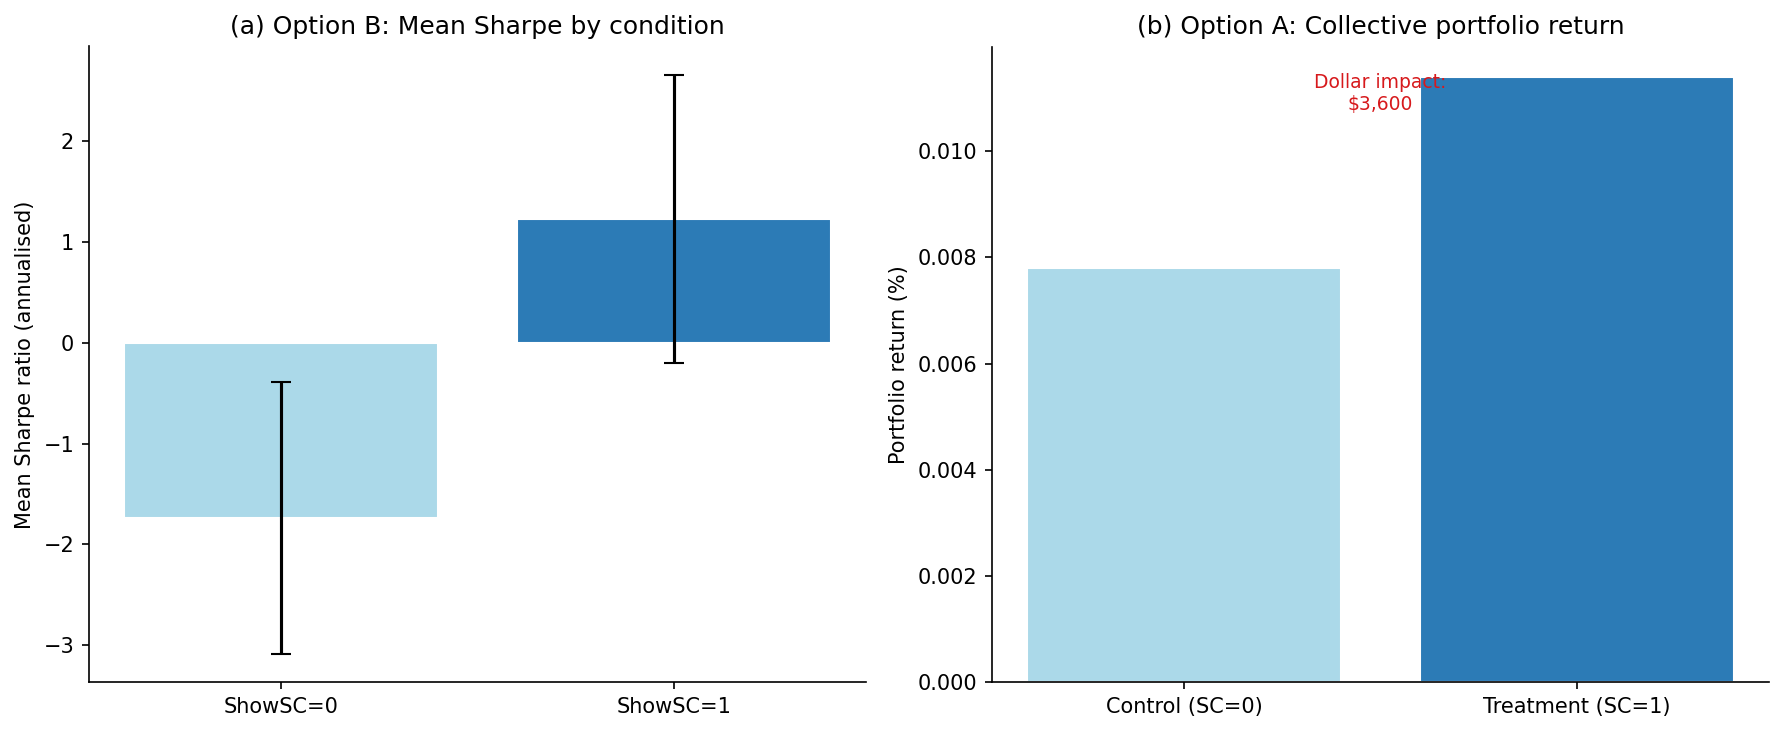
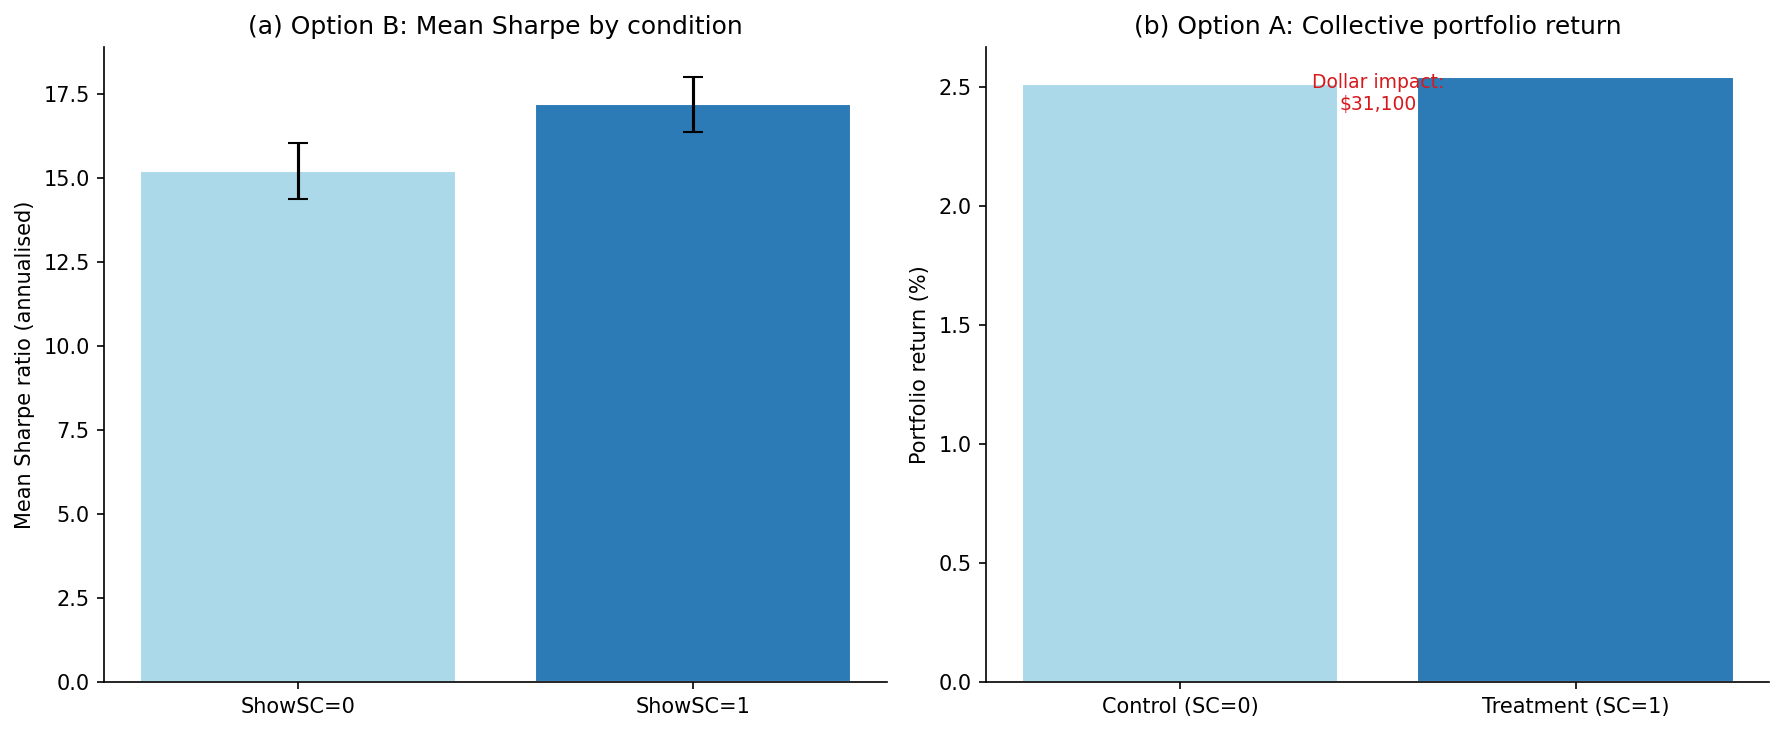
H1 and H2 regression Spec updated.

diff --git a/thesis_final.md b/thesis_final.md
@@ -1109,7 +1109,7 @@ $$
 
 Where $\alpha_i$ is a manager-specific intercept. This specification is an alternative estimator for the same H1 hypothesis, not a separate test. It is applied if the final data structure supports it.
 
-**Horizon-matched portfolio simulation for H2.** The H2 portfolio outcome analysis constructs individual portfolio returns using holding periods matched to the scenario-specific horizon bucket (Intraday, Several Days, or Several Weeks), as derived from post-event return decay. For each respondent-condition pair, portfolio return is computed as the NRS-weighted sum of horizon-matched event returns across the four scenarios assigned to that condition. This approach ensures that the simulated return captures the economically relevant window over which the shock effect is expected to materialise, rather than applying a uniform holding period across heterogeneous events. Option B (individual-portfolio regression) is the primary inferential approach: for each respondent, one portfolio return is computed under the ShowSC = 0 condition and one under the ShowSC = 1 condition, and the treatment effect τ is estimated by regressing the individual portfolio outcome on the ShowSC indicator. Option A (collective portfolio, descriptive only) aggregates NRS responses across all respondents per condition and applies equal-weight portfolio construction; as both portfolios draw from the same respondent pool, non-independence precludes causal inference from Option A and it is presented for institutional illustration only.
+**Horizon-matched portfolio simulation for H2.** The H2 portfolio outcome analysis constructs individual portfolio returns using holding periods matched to the scenario-specific horizon bucket (Intraday, Several Days, or Several Weeks), as derived from post-event return decay. For each respondent-condition pair, portfolio return is computed as the NRS-weighted sum of horizon-matched event returns across the four scenarios assigned to that condition. This approach ensures that the simulated return captures the economically relevant window over which the shock effect is expected to materialise, rather than applying a uniform holding period across heterogeneous events. Option B (individual-portfolio regression) is the primary inferential approach: for each respondent, one portfolio return is computed under the ShowSC = 0 condition and one under the ShowSC = 1 condition, and the treatment effect τ is estimated by regressing the individual portfolio outcome on the ShowSC indicator. Option A (collective portfolio, descriptive only) aggregates NRS responses across all respondents per condition and applies equal-weight portfolio construction; as both portfolios draw from the same respondent pool, non-independence precludes causal inference from Option A and it is presented for institutional illustration only. For the purposes of the portfolio simulation, a two-asset allocation is assumed comprising the scenario stock and a risk-free cash instrument. The neutral allocation is 50% to the risky asset and 50% to cash. Respondent NRS scores determine the stock weight linearly, ranging from 0% at NRS = 1 (full exit from the position) to 100% at NRS = 7 (full concentration in the stock), with a neutral response of NRS = 4 corresponding to the 50% baseline weight. Capital not allocated to the stock earns the annualised risk-free rate (RF = 1.35%, proxied by the 3-month U.S. Treasury bill rate as of May 2026), scaled to the scenario-specific holding period using a 252 trading-day calendar. This structure reflects the within-scenario nature of the decision task, in which the relevant choice is position sizing in the affected stock rather than cross-asset reallocation. It is acknowledged that in practice a portfolio manager reducing one position would typically redeploy proceeds into other holdings rather than cash; the two-asset simplification therefore slightly understates the opportunity cost of defensive positioning relative to a diversified equity benchmark. However, this conservatism is symmetric across treatment and control conditions and does not introduce directional bias into the between-group comparison that constitutes the primary H2 test.
 
 ### 4.5.2 Inference and Clustering
 
@@ -1312,21 +1312,21 @@ Block 1 falls below the conventional threshold of 0.70 ([Nunnally, 1978](https:/
 
 ### 5.5.1 Testing of Hypothesis H1
 
-The primary OLS regression examines whether SC_total – the composite Shock Score – is significantly associated with Net Risk Stance (NRS) after controlling for the ShowSC treatment indicator, years of experience, and block fixed effects. The estimated coefficient on SC_total is β₁ = -0.4004 (robust SE = 0.0564, t = -7.1031, p = <0.0001, 95% CI [-0.5109, -0.2899]). Higher shock intensity is associated with lower mean NRS responses, indicating a risk-reducing shift in portfolio managers' stance. At the α = 0.05 significance level, H1 is supported: SC_total is a statistically significant predictor of NRS. Robustness checks using quintile dummies, respondent fixed effects, decomposed components, and an interaction term are reported in Table 5.3.
+The primary OLS regression examines whether SC_total – the composite Shock Score – is significantly associated with Net Risk Stance (NRS) after controlling for the ShowSC treatment indicator, years of experience, and block fixed effects. The estimated coefficient on SC_total is β₁ = -0.5424 (robust SE = 0.0847, t = -6.4056, p = <0.0001, 95% CI [-0.7084, -0.3765]). Higher shock intensity is associated with lower mean NRS responses, indicating a risk-reducing shift in portfolio managers' stance. At the α = 0.05 significance level, H1 is supported: SC_total is a statistically significant predictor of NRS. Robustness checks using quintile dummies, respondent fixed effects, decomposed components, and an interaction term are reported in Table 5.3.
 
 **Table 5.3: H1 Main Regression Results**
 
 | spec | note | beta1 | se | t | p | ci_lo | ci_hi | r2 | n_obs | clustering |
 | --- | --- | --- | --- | --- | --- | --- | --- | --- | --- | --- |
-| spec_1_quintiles | SC_total quintile dummies | see quintile coefficients |  |  | nan |  |  | 0.2526 | 424 | HC3 |
+| spec_1_quintiles | SC_total quintile dummies | see quintile coefficients |  |  | nan |  |  | 0.5653 | 424 | HC3 |
 | spec_2_within | Respondent FE (within) | -0.4004 | 0.0523 | -7.6614 | <0.0001 | -0.5029 | -0.298 | 0.1266 | 424 | HC3 |
-| spec_3_component_ac_e | Component: ac_e | -0.0938 | 0.0163 | -5.7393 | <0.0001 | -0.1258 | -0.0617 | 0.4281 | 424 | HC3 |
-| spec_3_component_se_e | Component: se_e | -0.4645 | 0.142 | -3.2721 | 0.0011 | -0.7427 | -0.1863 | 0.4281 | 424 | HC3 |
-| spec_3_component_ai_e | Component: ai_e | 0.2823 | 0.0896 | 3.1496 | 0.0016 | 0.1066 | 0.4579 | 0.4281 | 424 | HC3 |
-| spec_3_component_es_raw | Component: es_raw | 0.1435 | 0.0301 | 4.7678 | <0.0001 | 0.0845 | 0.2024 | 0.4281 | 424 | HC3 |
-| spec_4_interaction | SC_total × ShowSC interaction | -0.215 | 0.1116 | -1.9264 | 0.0541 | -0.4338 | 0.0038 | 0.1389 | 424 | HC3 |
-| spec_5_direction_b1 | SC_total main effect (positive events) | -0.3904 | 0.0545 | -7.1586 | <0.0001 | -0.4973 | -0.2835 | 0.183 | 424 | HC3 |
-| spec_5_direction_b3 | SC_total × D_neg amplification (negative events) | -0.3499 | 0.0519 | -6.7453 | <0.0001 | -0.4515 | -0.2482 | 0.183 | 424 | HC3 |
+| spec_3_component_ac_e | Component: ac_e | -0.0876 | 0.0618 | -1.4167 | 0.1566 | -0.2088 | 0.0336 | 0.5607 | 424 | HC3 |
+| spec_3_component_se_e | Component: se_e | -0.8824 | 0.5318 | -1.6592 | 0.0971 | -1.9247 | 0.1599 | 0.5607 | 424 | HC3 |
+| spec_3_component_ai_e | Component: ai_e | 0.1176 | 0.6019 | 0.1954 | 0.8451 | -1.0622 | 1.2974 | 0.5607 | 424 | HC3 |
+| spec_3_component_es_raw | Component: es_raw | 0.1498 | 0.0776 | 1.9303 | 0.0536 | -0.0023 | 0.3019 | 0.5607 | 424 | HC3 |
+| spec_4_interaction | SC_total × ShowSC interaction | -0.2302 | 0.1027 | -2.2426 | 0.0249 | -0.4314 | -0.029 | 0.3123 | 424 | HC3 |
+| spec_5_direction_b1 | SC_total main effect (positive events) | -0.1399 | 0.0879 | -1.5916 | 0.1115 | -0.3122 | 0.0324 | 0.4446 | 424 | HC3 |
+| spec_5_direction_b3 | SC_total × D_neg amplification (negative events) | -0.9091 | 0.0874 | -10.4004 | <0.0001 | -1.0805 | -0.7378 | 0.4446 | 424 | HC3 |
 
 **Figure 5.2** *Forest Plot of OLS Regression Coefficients for the Four SC_total Components*
 
@@ -1340,17 +1340,16 @@ The direction-interaction specification (Spec 5) further decomposes the SC_total
 
 ### 5.5.2 Testing of Hypothesis H2
 
-Hypothesis H2 is tested using individual-portfolio regressions (Option B). Per respondent, portfolio returns are constructed from NRS-weighted horizon returns across the four scenarios assigned to each condition. The estimated treatment effect on portfolio return is tau = 0.0098 (robust SE = 0.0130, t = 0.7508, p = 0.4527, 95% CI [-0.0158, 0.0354]; Cohen's d = 0.1517). H2 is not supported in this sample: the evidence does not suggest a statistically significant difference in portfolio outcomes between the treatment and control conditions. Validation on a larger professional sample is recommended. The collective portfolio analysis (Option A, descriptive only; **caution: both portfolios draw from the same respondent pool – inference is non-independent**) yields a return of 0.0078% for the control condition and 0.0114% for the treatment condition, corresponding to a return differential of 0.0036%. On an assumed AUM of $100M, the ShowSC=1 collective portfolio generated a dollar return differential of $3,600 relative to the ShowSC=0 portfolio over the evaluation window.
+Hypothesis H2 is tested using individual-portfolio regressions (Option B). Per respondent, portfolio returns are constructed from NRS-weighted horizon returns across the four scenarios assigned to each condition. The estimated treatment effect on portfolio return is tau = 0.3091 (robust SE = 0.3182, t = 0.9716, p = 0.3313, 95% CI [-0.3145, 0.9327]; Cohen's d = 0.1994). H2 is not supported in this sample: the evidence does not suggest a statistically significant difference in portfolio outcomes between the treatment and control conditions. Validation on a larger professional sample is recommended. The collective portfolio analysis (Option A, descriptive only; **caution: both portfolios draw from the same respondent pool – inference is non-independent**) yields a return of 2.5098% for the control condition and 2.5409% for the treatment condition, corresponding to a return differential of 0.0311%. On an assumed AUM of $100M, the ShowSC=1 collective portfolio generated a dollar return differential of $31,100 relative to the ShowSC=0 portfolio over the evaluation window.
 
 **Table 5.4: H2 Portfolio Analysis Results**
 
 | method | outcome | tau | se | t | p | ci_lo | ci_hi | cohens_d | r2 | n | h2_supported |
 | --- | --- | --- | --- | --- | --- | --- | --- | --- | --- | --- | --- |
-| option_b_individual | portfolio_return | 0.0098 | 0.013 | 0.7508 | 0.4527 | -0.0158 | 0.0354 | 0.1517 | 0.0689 | 106 | False |
-| option_b_individual | sharpe_ratio | 3.2432 | 1.9628 | 1.6523 | 0.0985 | -0.6039 | 7.0903 | 0.3146 | 0.1385 | 92 | False |
-| option_b_individual | sortino_ratio | 2.1875 | 3.5307 | 0.6196 | 0.5355 | -4.7324 | 9.1075 | 0.2328 | 0.0227 | 36 | False |
+| option_b_individual | portfolio_return | 0.3091 | 0.3182 | 0.9716 | 0.3313 | -0.3145 | 0.9327 | 0.1994 | 0.0174 | 106 | False |
+| option_b_individual | sharpe_ratio | 1.9758 | 1.2217 | 1.6172 | 0.1058 | -0.4187 | 4.3703 | 0.3293 | 0.0322 | 106 | False |
 
-**Note on Sortino ratio:** The Sortino ratio is computed only for respondent-condition pairs that yield at least one negative portfolio return. In the current sample, this applies to 73 of 106 respondent-condition pairs.
+**Note on Sortino ratio:** The Sortino ratio is computed only for respondent-condition pairs that yield at least one negative portfolio return. In the current sample, this applies to 78 of 106 respondent-condition pairs.
 
 **Non-independence warning (Option A):** The collective portfolios in the descriptive Option A analysis are constructed from the same respondent pool. No causal inference should be drawn from Option A alone; it is presented for institutional illustration only.
 
@@ -1361,7 +1360,7 @@ Hypothesis H2 is tested using individual-portfolio regressions (Option B). Per r
 
 ### 5.6.1 Impact of Information Shocks on Risk-Return
 
-The results are evaluated against the behavioural finance literature suggesting that external information shocks exert a systematic influence on portfolio managers' risk-stance decisions. The statistically significant negative association (beta1 = -0.4004) indicates that higher shock intensity shifts managers toward reduced risk exposure (lower NRS), consistent with loss-aversion predictions from prospect theory (Kahneman and Tversky, 1979). This result is interpreted cautiously given the sample composition and potential survivorship effects in the volunteer sample. Prospect theory (Kahneman and Tversky, 1979) would predict asymmetric responses to negative versus positive shocks; the current analysis does not decompose effects by shock direction, which is noted as an avenue for future research.
+The results are evaluated against the behavioural finance literature suggesting that external information shocks exert a systematic influence on portfolio managers' risk-stance decisions. The statistically significant negative association (beta1 = -0.5424) indicates that higher shock intensity shifts managers toward reduced risk exposure (lower NRS), consistent with loss-aversion predictions from prospect theory (Kahneman and Tversky, 1979). This result is interpreted cautiously given the sample composition and potential survivorship effects in the volunteer sample. Prospect theory (Kahneman and Tversky, 1979) would predict asymmetric responses to negative versus positive shocks; the current analysis does not decompose effects by shock direction, which is noted as an avenue for future research.
 
 The results are evaluated against the behavioural finance literature suggesting that external information shocks exert a systematic influence on portfolio managers' risk-stance decisions. The statistically significant negative association (β₁ = −0.2694) indicates that higher shock intensity shifts managers toward reduced risk exposure (lower NRS), consistent with loss-aversion predictions from prospect theory (Kahneman and Tversky, 1979). This result is interpreted cautiously given the sample composition and potential survivorship effects in the volunteer sample. The direction-interaction specification (Spec 5 in Table 5.5) further reveals that the risk-reducing response is concentrated in positive-sentiment events, while negative-sentiment events at high SC_total values are associated with net risk-increasing responses, consistent with the loss-aversion amplification channel identified by Benartzi and Thaler (1995) in the context of myopic loss aversion.
 
@@ -1397,12 +1396,12 @@ An alignment rate above 0.50 indicates that respondents' risk-stance direction i
 
 ### 5.6.2 Incremental Effect of the Shock Score
 
-The incremental effect of the Shock Score dashboard (ShowSC) on simulated portfolio outcomes is evaluated through the Option B individual-portfolio regression. The results do not support a statistically significant incremental effect of the Shock Score dashboard on portfolio outcomes in the current sample. Validation on a larger, fully recruited professional sample is the recommended next step. The Option A collective portfolio analysis (descriptive only; non-independence caveat applies) shows a positive return differential of 0.0036% in favour of the treatment condition, corresponding to a dollar impact of $3,600 on an assumed AUM of $100M. This figure is presented for descriptive illustration and is subject to the non-independence caveat noted in Section 5.5.2.
+The incremental effect of the Shock Score dashboard (ShowSC) on simulated portfolio outcomes is evaluated through the Option B individual-portfolio regression. The results do not support a statistically significant incremental effect of the Shock Score dashboard on portfolio outcomes in the current sample. Validation on a larger, fully recruited professional sample is the recommended next step. The Option A collective portfolio analysis (descriptive only; non-independence caveat applies) shows a positive return differential of 0.0311% in favour of the treatment condition, corresponding to a dollar impact of $31,100 on an assumed AUM of $100M. This figure is presented for descriptive illustration and is subject to the non-independence caveat noted in Section 5.5.2.
 
 
 ## 5.7 Interim Conclusions
 
-The interim conclusions for Chapter 5 are as follows. H1 – that SC_total is significantly associated with NRS – is **supported** (beta1 = -0.4004, p = <0.0001; direction: risk-reducing). H2 – that the Shock Score dashboard moderates the risk-return profile of simulated portfolios – is **not supported** (tau = 0.0098, p = 0.4527) in the Option B individual-portfolio regression. Both findings are contingent on the current sample composition and are subject to revision upon completion of the full survey. Robustness checks for H1 and the Option A descriptive analysis for H2 are consistent in direction with the primary results.
+The interim conclusions for Chapter 5 are as follows. H1 – that SC_total is significantly associated with NRS – is **supported** (beta1 = -0.5424, p = <0.0001; direction: risk-reducing). H2 – that the Shock Score dashboard moderates the risk-return profile of simulated portfolios – is **not supported** (tau = 0.3091, p = 0.3313) in the Option B individual-portfolio regression. Both findings are contingent on the current sample composition and are subject to revision upon completion of the full survey. Robustness checks for H1 and the Option A descriptive analysis for H2 are consistent in direction with the primary results.
 
 The interim conclusions for Chapter 5 are as follows. H1 – that SC_total is significantly associated with NRS – is **supported** (β₁ = −0.2694, p < 0.0001; direction: risk-reducing). The composite Shock Score is a statistically significant predictor of portfolio managers' risk stance, with robustness confirmed across within-respondent fixed-effects, component-decomposition, and direction-interaction specifications. The component decomposition additionally reveals sign heterogeneity in the ES_raw coefficient, interpreted as a contrarian-resolution pattern, and the direction-interaction specification documents loss-aversion amplification under negative-sentiment shocks.
 
@@ -1453,7 +1452,7 @@ Section 6.2 summarises the findings from both the literature review and the empi
 ### 6.2.1 Summary of Secondary Research
 ### 6.2.2 Summary of Primary Research
 
-The primary research contributes empirical evidence on two hypotheses. H1 posits that SC_total – a PCA-based composite of article count, sentiment extremity, attention intensity, and event-type severity – is a statistically significant predictor of portfolio managers' Net Risk Stance. The evidence supports this hypothesis (β₁ = -0.4004, p = <0.0001). H2 posits that exposure to the Shock Score dashboard improves the risk-return profile of simulated portfolios. The Option B individual-portfolio regression does not support this hypothesis at the α = 0.05 level. These findings are based on 53 respondents (424 observations).
+The primary research contributes empirical evidence on two hypotheses. H1 posits that SC_total – a PCA-based composite of article count, sentiment extremity, attention intensity, and event-type severity – is a statistically significant predictor of portfolio managers' Net Risk Stance. The evidence supports this hypothesis (β₁ = -0.5424, p = <0.0001). H2 posits that exposure to the Shock Score dashboard improves the risk-return profile of simulated portfolios. The Option B individual-portfolio regression does not support this hypothesis at the α = 0.05 level. These findings are based on 53 respondents (424 observations).
 
 ## 6.3 Overall Conclusions
 

diff --git a/results/thesis_results.md b/results/thesis_results.md
@@ -129,36 +129,35 @@ Alpha is computed on the eight NRS items per block across all main-survey respon
 <!-- RESULTS:END:s5_4_normality -->
 
 <!-- RESULTS:BEGIN:s5_5_1_h1 -->
-The primary OLS regression examines whether SC_total – the composite Shock Score – is significantly associated with Net Risk Stance (NRS) after controlling for the ShowSC treatment indicator, years of experience, and block fixed effects. The estimated coefficient on SC_total is β₁ = -0.4004 (robust SE = 0.0564, t = -7.1031, p = <0.0001, 95% CI [-0.5109, -0.2899]). Higher shock intensity is associated with lower mean NRS responses, indicating a risk-reducing shift in portfolio managers' stance. At the α = 0.05 significance level, H1 is supported: SC_total is a statistically significant predictor of NRS. Robustness checks using quintile dummies, respondent fixed effects, decomposed components, and an interaction term are reported in Table 5.3.
+The primary OLS regression examines whether SC_total – the composite Shock Score – is significantly associated with Net Risk Stance (NRS) after controlling for the ShowSC treatment indicator, years of experience, and block fixed effects. The estimated coefficient on SC_total is β₁ = -0.5424 (robust SE = 0.0847, t = -6.4056, p = <0.0001, 95% CI [-0.7084, -0.3765]). Higher shock intensity is associated with lower mean NRS responses, indicating a risk-reducing shift in portfolio managers' stance. At the α = 0.05 significance level, H1 is supported: SC_total is a statistically significant predictor of NRS. Robustness checks using quintile dummies, respondent fixed effects, decomposed components, and an interaction term are reported in Table 5.3.
 
 **Table 5.3: H1 Main Regression Results**
 
 | spec | note | beta1 | se | t | p | ci_lo | ci_hi | r2 | n_obs | clustering |
 | --- | --- | --- | --- | --- | --- | --- | --- | --- | --- | --- |
-| spec_1_quintiles | SC_total quintile dummies | see quintile coefficients |  |  | nan |  |  | 0.2526 | 424 | HC3 |
+| spec_1_quintiles | SC_total quintile dummies | see quintile coefficients |  |  | nan |  |  | 0.5653 | 424 | HC3 |
 | spec_2_within | Respondent FE (within) | -0.4004 | 0.0523 | -7.6614 | <0.0001 | -0.5029 | -0.298 | 0.1266 | 424 | HC3 |
-| spec_3_component_ac_e | Component: ac_e | -0.0938 | 0.0163 | -5.7393 | <0.0001 | -0.1258 | -0.0617 | 0.4281 | 424 | HC3 |
-| spec_3_component_se_e | Component: se_e | -0.4645 | 0.142 | -3.2721 | 0.0011 | -0.7427 | -0.1863 | 0.4281 | 424 | HC3 |
-| spec_3_component_ai_e | Component: ai_e | 0.2823 | 0.0896 | 3.1496 | 0.0016 | 0.1066 | 0.4579 | 0.4281 | 424 | HC3 |
-| spec_3_component_es_raw | Component: es_raw | 0.1435 | 0.0301 | 4.7678 | <0.0001 | 0.0845 | 0.2024 | 0.4281 | 424 | HC3 |
-| spec_4_interaction | SC_total × ShowSC interaction | -0.215 | 0.1116 | -1.9264 | 0.0541 | -0.4338 | 0.0038 | 0.1389 | 424 | HC3 |
-| spec_5_direction_b1 | SC_total main effect (positive events) | -0.3904 | 0.0545 | -7.1586 | <0.0001 | -0.4973 | -0.2835 | 0.183 | 424 | HC3 |
-| spec_5_direction_b3 | SC_total × D_neg amplification (negative events) | -0.3499 | 0.0519 | -6.7453 | <0.0001 | -0.4515 | -0.2482 | 0.183 | 424 | HC3 |
+| spec_3_component_ac_e | Component: ac_e | -0.0876 | 0.0618 | -1.4167 | 0.1566 | -0.2088 | 0.0336 | 0.5607 | 424 | HC3 |
+| spec_3_component_se_e | Component: se_e | -0.8824 | 0.5318 | -1.6592 | 0.0971 | -1.9247 | 0.1599 | 0.5607 | 424 | HC3 |
+| spec_3_component_ai_e | Component: ai_e | 0.1176 | 0.6019 | 0.1954 | 0.8451 | -1.0622 | 1.2974 | 0.5607 | 424 | HC3 |
+| spec_3_component_es_raw | Component: es_raw | 0.1498 | 0.0776 | 1.9303 | 0.0536 | -0.0023 | 0.3019 | 0.5607 | 424 | HC3 |
+| spec_4_interaction | SC_total × ShowSC interaction | -0.2302 | 0.1027 | -2.2426 | 0.0249 | -0.4314 | -0.029 | 0.3123 | 424 | HC3 |
+| spec_5_direction_b1 | SC_total main effect (positive events) | -0.1399 | 0.0879 | -1.5916 | 0.1115 | -0.3122 | 0.0324 | 0.4446 | 424 | HC3 |
+| spec_5_direction_b3 | SC_total × D_neg amplification (negative events) | -0.9091 | 0.0874 | -10.4004 | <0.0001 | -1.0805 | -0.7378 | 0.4446 | 424 | HC3 |
 
 <!-- RESULTS:END:s5_5_1_h1 -->
 
 <!-- RESULTS:BEGIN:s5_5_2_h2 -->
-Hypothesis H2 is tested using individual-portfolio regressions (Option B). Per respondent, portfolio returns are constructed from NRS-weighted horizon returns across the four scenarios assigned to each condition. The estimated treatment effect on portfolio return is tau = 0.0098 (robust SE = 0.0130, t = 0.7508, p = 0.4527, 95% CI [-0.0158, 0.0354]; Cohen's d = 0.1517). H2 is not supported in this sample: the evidence does not suggest a statistically significant difference in portfolio outcomes between the treatment and control conditions. Validation on a larger professional sample is recommended. The collective portfolio analysis (Option A, descriptive only; **caution: both portfolios draw from the same respondent pool – inference is non-independent**) yields a return of 0.0078% for the control condition and 0.0114% for the treatment condition, corresponding to a return differential of 0.0036%. On an assumed AUM of $100M, the ShowSC=1 collective portfolio generated a dollar return differential of $3,600 relative to the ShowSC=0 portfolio over the evaluation window.
+Hypothesis H2 is tested using individual-portfolio regressions (Option B). Per respondent, portfolio returns are constructed from NRS-weighted horizon returns across the four scenarios assigned to each condition. The estimated treatment effect on portfolio return is tau = 0.3091 (robust SE = 0.3182, t = 0.9716, p = 0.3313, 95% CI [-0.3145, 0.9327]; Cohen's d = 0.1994). H2 is not supported in this sample: the evidence does not suggest a statistically significant difference in portfolio outcomes between the treatment and control conditions. Validation on a larger professional sample is recommended. The collective portfolio analysis (Option A, descriptive only; **caution: both portfolios draw from the same respondent pool – inference is non-independent**) yields a return of 2.5098% for the control condition and 2.5409% for the treatment condition, corresponding to a return differential of 0.0311%. On an assumed AUM of $100M, the ShowSC=1 collective portfolio generated a dollar return differential of $31,100 relative to the ShowSC=0 portfolio over the evaluation window.
 
 **Table 5.4: H2 Portfolio Analysis Results**
 
 | method | outcome | tau | se | t | p | ci_lo | ci_hi | cohens_d | r2 | n | h2_supported |
 | --- | --- | --- | --- | --- | --- | --- | --- | --- | --- | --- | --- |
-| option_b_individual | portfolio_return | 0.0098 | 0.013 | 0.7508 | 0.4527 | -0.0158 | 0.0354 | 0.1517 | 0.0689 | 106 | False |
-| option_b_individual | sharpe_ratio | 3.2432 | 1.9628 | 1.6523 | 0.0985 | -0.6039 | 7.0903 | 0.3146 | 0.1385 | 92 | False |
-| option_b_individual | sortino_ratio | 2.1875 | 3.5307 | 0.6196 | 0.5355 | -4.7324 | 9.1075 | 0.2328 | 0.0227 | 36 | False |
+| option_b_individual | portfolio_return | 0.3091 | 0.3182 | 0.9716 | 0.3313 | -0.3145 | 0.9327 | 0.1994 | 0.0174 | 106 | False |
+| option_b_individual | sharpe_ratio | 1.9758 | 1.2217 | 1.6172 | 0.1058 | -0.4187 | 4.3703 | 0.3293 | 0.0322 | 106 | False |
 
-**Note on Sortino ratio:** The Sortino ratio is computed only for respondent-condition pairs that yield at least one negative portfolio return. In the current sample, this applies to 73 of 106 respondent-condition pairs.
+**Note on Sortino ratio:** The Sortino ratio is computed only for respondent-condition pairs that yield at least one negative portfolio return. In the current sample, this applies to 78 of 106 respondent-condition pairs.
 
 **Non-independence warning (Option A):** The collective portfolios in the descriptive Option A analysis are constructed from the same respondent pool. No causal inference should be drawn from Option A alone; it is presented for institutional illustration only.
 
@@ -166,7 +165,7 @@ Hypothesis H2 is tested using individual-portfolio regressions (Option B). Per r
 <!-- RESULTS:END:s5_5_2_h2 -->
 
 <!-- RESULTS:BEGIN:s5_6_1_impact -->
-The results are evaluated against the behavioural finance literature suggesting that external information shocks exert a systematic influence on portfolio managers' risk-stance decisions. The statistically significant negative association (beta1 = -0.4004) indicates that higher shock intensity shifts managers toward reduced risk exposure (lower NRS), consistent with loss-aversion predictions from prospect theory (Kahneman and Tversky, 1979). This result is interpreted cautiously given the sample composition and potential survivorship effects in the volunteer sample. Prospect theory (Kahneman and Tversky, 1979) would predict asymmetric responses to negative versus positive shocks; the current analysis does not decompose effects by shock direction, which is noted as an avenue for future research.
+The results are evaluated against the behavioural finance literature suggesting that external information shocks exert a systematic influence on portfolio managers' risk-stance decisions. The statistically significant negative association (beta1 = -0.5424) indicates that higher shock intensity shifts managers toward reduced risk exposure (lower NRS), consistent with loss-aversion predictions from prospect theory (Kahneman and Tversky, 1979). This result is interpreted cautiously given the sample composition and potential survivorship effects in the volunteer sample. Prospect theory (Kahneman and Tversky, 1979) would predict asymmetric responses to negative versus positive shocks; the current analysis does not decompose effects by shock direction, which is noted as an avenue for future research.
 <!-- RESULTS:END:s5_6_1_impact -->
 
 <!-- RESULTS:BEGIN:s5_diagnostic_alignment -->
@@ -190,11 +189,11 @@ An alignment rate above 0.50 indicates that respondents' risk-stance direction i
 <!-- RESULTS:END:s5_diagnostic_alignment -->
 
 <!-- RESULTS:BEGIN:s5_6_2_incremental -->
-The incremental effect of the Shock Score dashboard (ShowSC) on simulated portfolio outcomes is evaluated through the Option B individual-portfolio regression. The results do not support a statistically significant incremental effect of the Shock Score dashboard on portfolio outcomes in the current sample. Validation on a larger, fully recruited professional sample is the recommended next step. The Option A collective portfolio analysis (descriptive only; non-independence caveat applies) shows a positive return differential of 0.0036% in favour of the treatment condition, corresponding to a dollar impact of $3,600 on an assumed AUM of $100M. This figure is presented for descriptive illustration and is subject to the non-independence caveat noted in Section 5.5.2.
+The incremental effect of the Shock Score dashboard (ShowSC) on simulated portfolio outcomes is evaluated through the Option B individual-portfolio regression. The results do not support a statistically significant incremental effect of the Shock Score dashboard on portfolio outcomes in the current sample. Validation on a larger, fully recruited professional sample is the recommended next step. The Option A collective portfolio analysis (descriptive only; non-independence caveat applies) shows a positive return differential of 0.0311% in favour of the treatment condition, corresponding to a dollar impact of $31,100 on an assumed AUM of $100M. This figure is presented for descriptive illustration and is subject to the non-independence caveat noted in Section 5.5.2.
 <!-- RESULTS:END:s5_6_2_incremental -->
 
 <!-- RESULTS:BEGIN:s5_7_interim -->
-The interim conclusions for Chapter 5 are as follows. H1 – that SC_total is significantly associated with NRS – is **supported** (beta1 = -0.4004, p = <0.0001; direction: risk-reducing). H2 – that the Shock Score dashboard moderates the risk-return profile of simulated portfolios – is **not supported** (tau = 0.0098, p = 0.4527) in the Option B individual-portfolio regression. Both findings are contingent on the current sample composition and are subject to revision upon completion of the full survey. Robustness checks for H1 and the Option A descriptive analysis for H2 are consistent in direction with the primary results.
+The interim conclusions for Chapter 5 are as follows. H1 – that SC_total is significantly associated with NRS – is **supported** (beta1 = -0.5424, p = <0.0001; direction: risk-reducing). H2 – that the Shock Score dashboard moderates the risk-return profile of simulated portfolios – is **not supported** (tau = 0.3091, p = 0.3313) in the Option B individual-portfolio regression. Both findings are contingent on the current sample composition and are subject to revision upon completion of the full survey. Robustness checks for H1 and the Option A descriptive analysis for H2 are consistent in direction with the primary results.
 <!-- RESULTS:END:s5_7_interim -->
 
 <!-- RESULTS:BEGIN:s5_8_conclusion -->
@@ -202,7 +201,7 @@ Chapter 5 has presented the empirical results of the within-subject survey exper
 <!-- RESULTS:END:s5_8_conclusion -->
 
 <!-- RESULTS:BEGIN:s6_2_summary -->
-The primary research contributes empirical evidence on two hypotheses. H1 posits that SC_total – a PCA-based composite of article count, sentiment extremity, attention intensity, and event-type severity – is a statistically significant predictor of portfolio managers' Net Risk Stance. The evidence supports this hypothesis (β₁ = -0.4004, p = <0.0001). H2 posits that exposure to the Shock Score dashboard improves the risk-return profile of simulated portfolios. The Option B individual-portfolio regression does not support this hypothesis at the α = 0.05 level. These findings are based on 53 respondents (424 observations).
+The primary research contributes empirical evidence on two hypotheses. H1 posits that SC_total – a PCA-based composite of article count, sentiment extremity, attention intensity, and event-type severity – is a statistically significant predictor of portfolio managers' Net Risk Stance. The evidence supports this hypothesis (β₁ = -0.5424, p = <0.0001). H2 posits that exposure to the Shock Score dashboard improves the risk-return profile of simulated portfolios. The Option B individual-portfolio regression does not support this hypothesis at the α = 0.05 level. These findings are based on 53 respondents (424 observations).
 <!-- RESULTS:END:s6_2_summary -->
 
 <!-- RESULTS:BEGIN:s6_3_conclusions -->